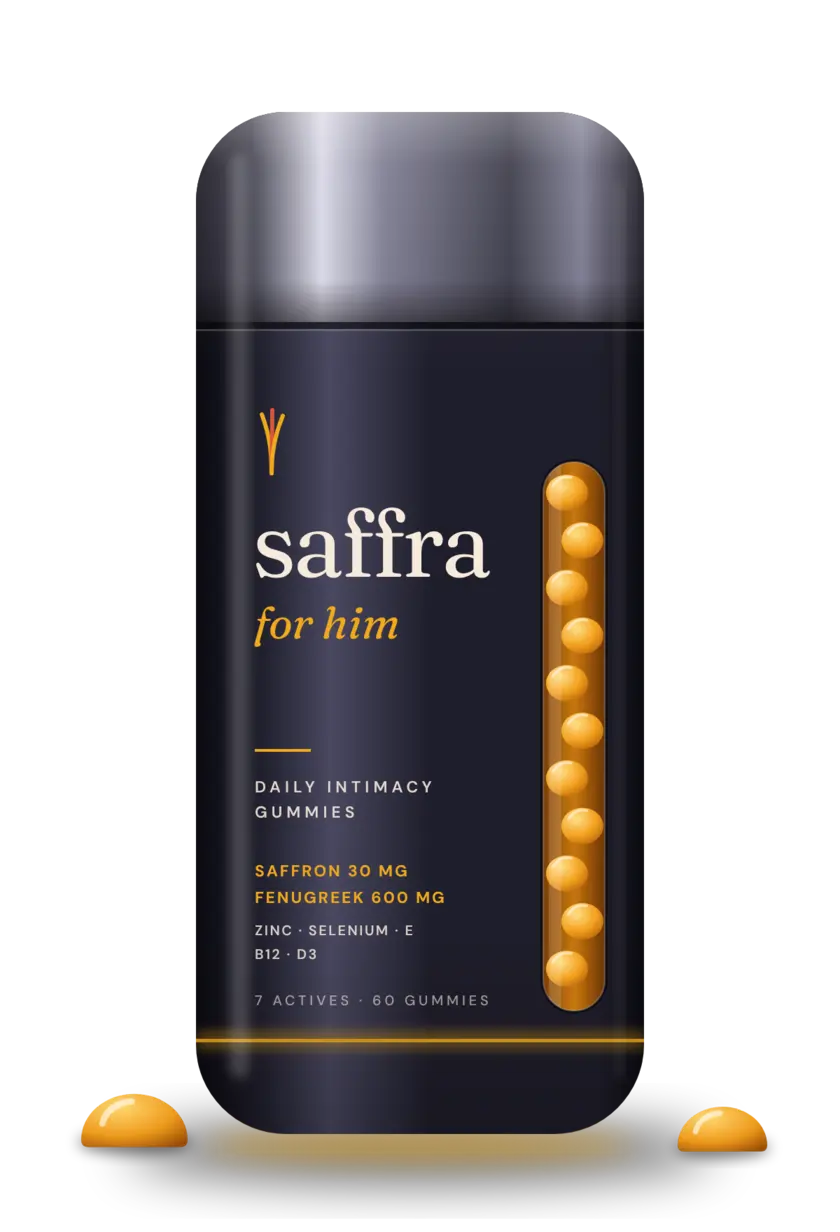
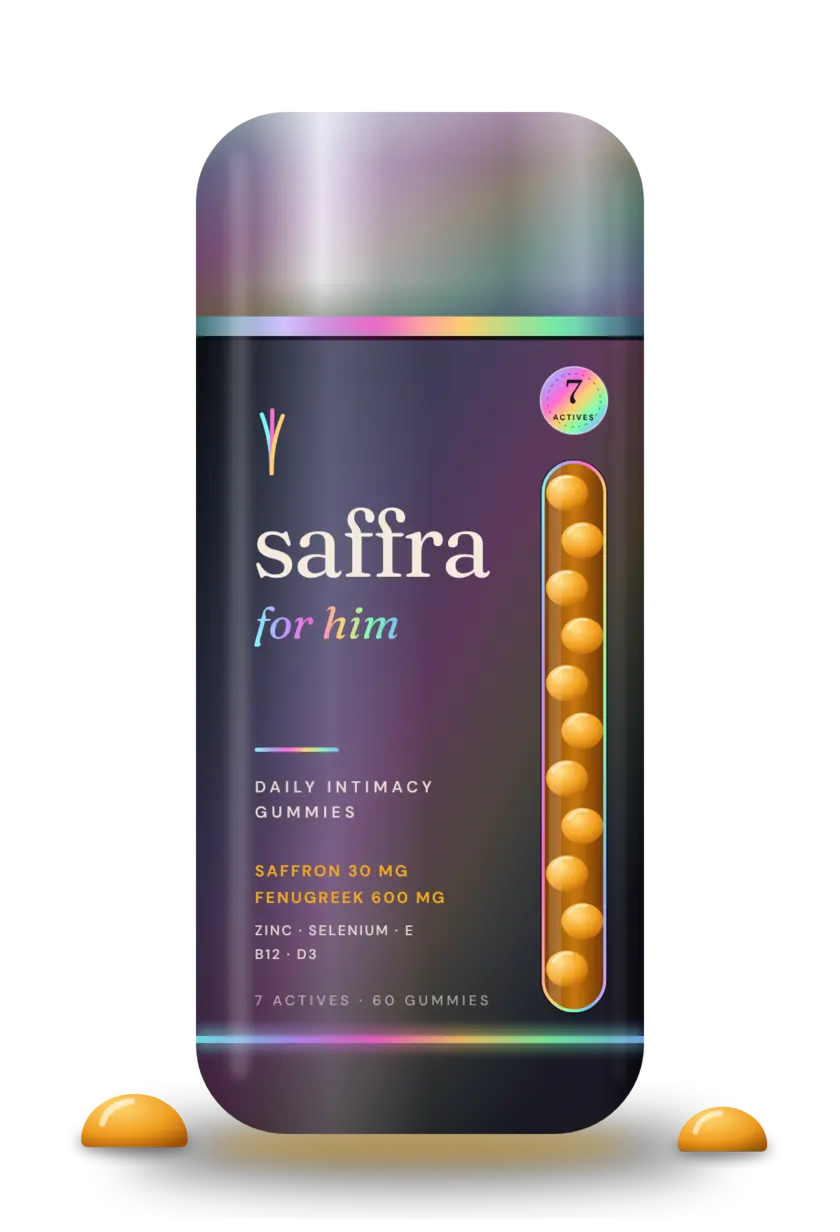
Add motion, metallic buttons, purple-to-red lines and holographic packaging
Silver and purple metallic buttons with a moving sheen, animated gradient
lines, hero line art and floating jars, a ticker, and scroll reveals.
Bottle and box renders now carry holographic foil.

Claude-Session: https://claude.ai/code/session_015dDce3uLSXqt7HekCjqUxV

diff --git a/index.html b/index.html
@@ -478,6 +478,76 @@ body[data-view="read-habit"] #v-read-habit,body[data-view="read-saffron"] #v-rea
   .nav nav{gap:14px}
 }
 @media (prefers-reduced-motion:reduce){html{scroll-behavior:auto}.btn{transition:none}}
+
+/* ---------- motion and metal layer ---------- */
+:root{--violet:#9333EA;--violet-2:#5B1FB8;--ruby:#E11D48;--line:linear-gradient(90deg,var(--violet),#C026D3 45%,var(--ruby));--silver:linear-gradient(180deg,#ffffff 0%,#e6e7ee 22%,#b9bcc9 50%,#e9eaf0 74%,#9a9dab 100%);--purple-metal:linear-gradient(180deg,#c79bff 0%,#9a4dff 26%,#6a21c9 55%,#8d3df0 78%,#4a1596 100%)}
+.btn{background:var(--silver);color:#16131a;position:relative;overflow:hidden;isolation:isolate;border:1px solid rgba(255,255,255,.7);box-shadow:0 1px 0 rgba(255,255,255,.9) inset,0 -2px 4px rgba(0,0,0,.18) inset,0 8px 26px rgba(170,175,200,.28);text-shadow:0 1px 0 rgba(255,255,255,.6)}
+.btn:hover{background:var(--silver);filter:brightness(1.06)}
+.btn.ghost,.btn.dark{background:var(--purple-metal);color:#fff;border:1px solid rgba(214,180,255,.7);box-shadow:0 1px 0 rgba(255,255,255,.45) inset,0 -2px 5px rgba(0,0,0,.3) inset,0 8px 26px rgba(147,51,234,.4);text-shadow:0 1px 1px rgba(40,0,90,.6)}
+.btn.ghost:hover,.btn.dark:hover{background:var(--purple-metal);border-color:#e9d5ff;filter:brightness(1.1)}
+.btn::after{content:"";position:absolute;top:-20%;bottom:-20%;left:-60%;width:45%;background:linear-gradient(100deg,transparent,rgba(255,255,255,.75),transparent);transform:skewX(-20deg);z-index:-1;animation:sheen 4.5s ease-in-out infinite}
+.btn.ghost::after,.btn.dark::after{background:linear-gradient(100deg,transparent,rgba(255,255,255,.4),transparent);animation-delay:1.2s}
+.nav nav a.btn{color:#16131a}
+@keyframes sheen{0%,55%{left:-60%}85%,100%{left:130%}}
+.toggle button[aria-pressed="true"],.chip[aria-pressed="true"]{background:var(--silver);color:#16131a;border-color:rgba(255,255,255,.7)}
+.gtabs button[aria-selected="true"]{background:var(--purple-metal);color:#fff;border-color:rgba(214,180,255,.7)}
+.day[aria-pressed="true"]{background:var(--purple-metal);border-color:#d6b4ff;color:#fff}
+.bar{background:linear-gradient(90deg,var(--violet-2),var(--violet) 40%,var(--ruby));color:#fff}
+.nav{border-bottom:0}
+.nav::after,.trust::before,.trust::after,footer::before{content:"";display:block;height:2px;background:var(--line);background-size:200% 100%;animation:flow 6s linear infinite}
+.trust{border:0}
+footer{padding-top:0}
+footer::before{margin-bottom:44px}
+@keyframes flow{to{background-position:200% 0}}
+.steps div,.vals div,.proof div{border-top:0;position:relative}
+.steps div::after,.vals div::after{content:"";position:absolute;left:0;right:0;top:0;height:2px;background:var(--line);box-shadow:0 0 14px rgba(225,29,72,.55)}
+.honest div{border-top:2px solid transparent;border-image:var(--line) 1}
+.rit li,.light details{border-image:linear-gradient(90deg,rgba(147,51,234,.55),rgba(225,29,72,.55)) 1}
+.two,.cross{border:1px solid transparent;background:linear-gradient(100deg,#3a1b3f,var(--plum-2) 60%) padding-box,var(--line) border-box}
+.card,.tile,.doc,.expect div,.ing{background-clip:padding-box}
+.tile:hover{border-color:var(--violet)}
+.price.hero-offer{border-color:var(--violet)}
+.rule{position:relative;height:70px;overflow:hidden}
+.rule svg{position:absolute;inset:0;width:200%;height:100%;animation:drift 14s linear infinite}
+.rule path{fill:none;stroke-width:1.6;stroke-linecap:round}
+@keyframes drift{to{transform:translateX(-50%)}}
+.hero{overflow:hidden}
+.hero .wrap{position:relative;z-index:1}
+.hero .lines{position:absolute;inset:0;width:100%;height:100%;z-index:0;pointer-events:none}
+.hero .lines path{fill:none;stroke-width:1.4;stroke-linecap:round;stroke-dasharray:6 14;animation:dash 9s linear infinite;opacity:.85}
+.hero .lines path:nth-child(2){animation-duration:13s;stroke-dasharray:2 10;opacity:.6}
+.hero .lines path:nth-child(3){animation-duration:17s;stroke-dasharray:14 18;opacity:.5}
+@keyframes dash{to{stroke-dashoffset:-400}}
+.hero .shot img{animation:float 7s ease-in-out infinite}
+@keyframes float{0%,100%{transform:translateY(0)}50%{transform:translateY(-12px)}}
+.hero .shot{position:relative}
+.hero .shot::before{content:"";position:absolute;left:8%;right:8%;top:18%;bottom:6%;border-radius:50%;background:radial-gradient(circle,rgba(147,51,234,.45),rgba(225,29,72,.18) 55%,transparent 72%);filter:blur(30px);animation:pulse 5s ease-in-out infinite;z-index:-1}
+@keyframes pulse{0%,100%{opacity:.65;transform:scale(1)}50%{opacity:1;transform:scale(1.08)}}
+.orb{position:absolute;border-radius:50%;background:radial-gradient(circle at 35% 30%,#ffd872,#ee9a1c 60%,#9a4f06);box-shadow:0 0 18px rgba(240,169,30,.5);animation:bob 9s ease-in-out infinite;z-index:0}
+.orb.o1{width:16px;height:16px;left:6%;top:22%}.orb.o2{width:10px;height:10px;left:46%;top:12%;animation-delay:-3s}.orb.o3{width:22px;height:22px;right:5%;top:64%;animation-delay:-5s}.orb.o4{width:8px;height:8px;left:30%;bottom:10%;animation-delay:-7s}
+@keyframes bob{0%,100%{transform:translate(0,0)}33%{transform:translate(10px,-18px)}66%{transform:translate(-8px,10px)}}
+.ticker{overflow:hidden;white-space:nowrap;padding:16px 0;background:#1d0d1c}
+.ticker div{display:inline-block;animation:tick 32s linear infinite;font-family:var(--display);font-style:italic;font-size:22px;color:var(--cream)}
+.ticker span{margin:0 22px}
+.ticker i{display:inline-block;width:44px;height:2px;background:var(--line);vertical-align:middle;border-radius:2px}
+@keyframes tick{to{transform:translateX(-50%)}}
+h1 em,.hero em,.pdp h1 i{background:linear-gradient(90deg,#F0A91E,#ff7a59 60%,#F0A91E);background-size:200% 100%;-webkit-background-clip:text;background-clip:text;color:transparent!important;animation:flow 8s linear infinite}
+.eyebrow::before{content:"";display:inline-block;width:26px;height:2px;background:var(--line);vertical-align:middle;margin-right:10px;border-radius:2px}
+.deckcard{position:relative;overflow:hidden}
+.deckcard::before{content:"";position:absolute;left:0;right:0;top:0;height:4px;background:var(--line)}
+.card{transition:transform .25s,box-shadow .25s}
+.card:hover{transform:translateY(-4px);box-shadow:0 22px 50px rgba(147,51,234,.28)}
+.card img,.stage img{transition:transform .5s}
+.card:hover img{transform:translateY(-6px) rotate(-2deg)}
+.photo img{transition:transform 1.2s ease}
+.photo:hover img{transform:scale(1.05)}
+.prog i{background:var(--line)}
+@supports (animation-timeline:view()){
+  .head,.ing2,.tile,.post,.doc,.steps div,.vals div,.products .card,.two,.stages .photo,.story .txt,.letter>*{animation:rise linear both;animation-timeline:view();animation-range:entry 0% entry 45%}
+}
+@keyframes rise{from{opacity:.15;transform:translateY(34px)}to{opacity:1;transform:none}}
+@media (max-width:900px){.orb.o1,.orb.o2{display:none}.orb{opacity:.7}}
+@media (prefers-reduced-motion:reduce){*,*::before,*::after{animation:none!important;transition:none!important}}
 </style>
 </head>
 <body data-view="home">
@@ -514,6 +584,12 @@ body[data-view="read-habit"] #v-read-habit,body[data-view="read-saffron"] #v-rea
 <main id="site">
 <span id="top"></span>
 <div class="hero">
+  <svg class="lines" viewBox="0 0 1200 600" preserveAspectRatio="none" aria-hidden="true"><defs><linearGradient id="lg" x1="0" x2="1"><stop offset="0" stop-color="#9333EA"/><stop offset=".5" stop-color="#C026D3"/><stop offset="1" stop-color="#E11D48"/></linearGradient></defs>
+    <path stroke="url(#lg)" d="M-20 420 C 200 300, 380 520, 620 400 S 1000 260, 1220 380"/>
+    <path stroke="url(#lg)" d="M-20 480 C 240 380, 420 560, 660 450 S 1040 330, 1220 450"/>
+    <path stroke="url(#lg)" d="M-20 340 C 180 240, 400 430, 640 330 S 980 180, 1220 300"/>
+  </svg>
+  <span class="orb o1"></span><span class="orb o2"></span><span class="orb o3"></span><span class="orb o4"></span>
   <div class="wrap">
     <div class="copy">
       <p class="eyebrow">Daily intimacy gummies, for her and for him</p>
@@ -529,6 +605,7 @@ body[data-view="read-habit"] #v-read-habit,body[data-view="read-saffron"] #v-rea
   </div>
 </div>
 
+<div class="ticker" aria-hidden="true"><div><span>Desire, daily</span><i></i><span>For her</span><i></i><span>For him</span><i></i><span>For two</span><i></i><span>Seven ingredients</span><i></i><span>Every dose shown</span><i></i><span>Make time for each other</span><i></i><span>Desire, daily</span><i></i><span>For her</span><i></i><span>For him</span><i></i><span>For two</span><i></i><span>Seven ingredients</span><i></i><span>Every dose shown</span><i></i><span>Make time for each other</span><i></i></div></div>
 <div class="trust">
   <div class="wrap">
     <div><b>Full doses</b><span>Every amount printed on the jar</span></div>
@@ -562,7 +639,8 @@ body[data-view="read-habit"] #v-read-habit,body[data-view="read-saffron"] #v-rea
   </div>
 </section>
 
-<section id="shop" style="padding-top:0">
+<div class="rule" aria-hidden="true"><svg viewBox="0 0 2400 70" preserveAspectRatio="none"><defs><linearGradient id="wg" x1="0" x2="1"><stop offset="0" stop-color="#9333EA"/><stop offset=".25" stop-color="#E11D48"/><stop offset=".5" stop-color="#9333EA"/><stop offset=".75" stop-color="#E11D48"/><stop offset="1" stop-color="#9333EA"/></linearGradient></defs><path stroke="url(#wg)" d="M0 35 C 150 5, 300 65, 450 35 S 750 5, 900 35 S 1050 65, 1200 35 C 1350 5, 1500 65, 1650 35 S 1950 5, 2100 35 S 2250 65, 2400 35"/><path stroke="url(#wg)" opacity=".5" d="M0 35 C 150 60, 300 10, 450 35 S 750 60, 900 35 S 1050 10, 1200 35 C 1350 60, 1500 10, 1650 35 S 1950 60, 2100 35 S 2250 10, 2400 35"/></svg></div>
+<section id="shop" style="padding-top:24px">
   <div class="wrap">
     <div class="shop-head">
       <div class="head" style="margin:0">
@@ -701,7 +779,8 @@ body[data-view="read-habit"] #v-read-habit,body[data-view="read-saffron"] #v-rea
   </div>
 </section>
 
-<section id="doctors" style="padding-top:0">
+<div class="rule" aria-hidden="true"><svg viewBox="0 0 2400 70" preserveAspectRatio="none"><defs><linearGradient id="wg" x1="0" x2="1"><stop offset="0" stop-color="#9333EA"/><stop offset=".25" stop-color="#E11D48"/><stop offset=".5" stop-color="#9333EA"/><stop offset=".75" stop-color="#E11D48"/><stop offset="1" stop-color="#9333EA"/></linearGradient></defs><path stroke="url(#wg)" d="M0 35 C 150 5, 300 65, 450 35 S 750 5, 900 35 S 1050 65, 1200 35 C 1350 5, 1500 65, 1650 35 S 1950 5, 2100 35 S 2250 65, 2400 35"/><path stroke="url(#wg)" opacity=".5" d="M0 35 C 150 60, 300 10, 450 35 S 750 60, 900 35 S 1050 10, 1200 35 C 1350 60, 1500 10, 1650 35 S 1950 60, 2100 35 S 2250 10, 2400 35"/></svg></div>
+<section id="doctors" style="padding-top:24px">
   <div class="wrap">
     <div class="head">
       <p class="eyebrow">Medical advisory board</p>
@@ -768,7 +847,8 @@ body[data-view="read-habit"] #v-read-habit,body[data-view="read-saffron"] #v-rea
   </div>
 </section>
 
-<section id="more" style="padding-top:0">
+<div class="rule" aria-hidden="true"><svg viewBox="0 0 2400 70" preserveAspectRatio="none"><defs><linearGradient id="wg" x1="0" x2="1"><stop offset="0" stop-color="#9333EA"/><stop offset=".25" stop-color="#E11D48"/><stop offset=".5" stop-color="#9333EA"/><stop offset=".75" stop-color="#E11D48"/><stop offset="1" stop-color="#9333EA"/></linearGradient></defs><path stroke="url(#wg)" d="M0 35 C 150 5, 300 65, 450 35 S 750 5, 900 35 S 1050 65, 1200 35 C 1350 5, 1500 65, 1650 35 S 1950 5, 2100 35 S 2250 65, 2400 35"/><path stroke="url(#wg)" opacity=".5" d="M0 35 C 150 60, 300 10, 450 35 S 750 60, 900 35 S 1050 10, 1200 35 C 1350 60, 1500 10, 1650 35 S 1950 60, 2100 35 S 2250 10, 2400 35"/></svg></div>
+<section id="more" style="padding-top:24px">
   <div class="wrap">
     <div class="head"><p class="eyebrow">More than a gummy</p><h2>Come for the ritual. Stay to play.</h2><p class="muted">Free things to do together, whether or not you ever buy a jar.</p></div>
     <div class="tiles">
@@ -1504,7 +1584,7 @@ body[data-view="read-habit"] #v-read-habit,body[data-view="read-saffron"] #v-rea
         <h3>Packaging</h3>
         <img src="img/duo-dark.jpg" width="1600" height="1200" alt="Rendering of the For Her and For Him jars" style="border-radius:var(--r)">
         <img src="img/set.jpg" width="1600" height="1200" alt="Rendering of the For Two gift box with both jars" style="border-radius:var(--r)" loading="lazy">
-        <p class="muted">One seamless capsule shape with no paper label. For Her: matte plum with a gold cap. For Him: graphite with a steel cap. Type is printed on the jar, a side window shows the gummies, and a saffron line marks the base. Doses sit on the front of both. The For Two box is matte plum with the wordmark in gold foil.</p>
+        <p class="muted">One seamless capsule shape with no paper label. For Her: matte plum with a gold cap. For Him: graphite with a steel cap. Type is printed on the jar, a side window shows the gummies, and holographic foil marks the cap seam, the base line, the logo and a small 7-actives seal. Doses sit on the front of both. The For Two box is matte plum with the wordmark in holographic foil.</p>
       </div>
       <div>
         <h3 style="margin-bottom:14px">Color</h3>
@@ -1641,7 +1721,7 @@ body[data-view="read-habit"] #v-read-habit,body[data-view="read-saffron"] #v-rea
     var imgs=jars.map(function(j){return '<img src="img/bottle-'+j+'.webp" alt="Saffra for '+j+' jar" width="840" height="1232">';}).join('');
     qb.innerHTML='<div class="result"><p class="eyebrow" style="color:var(--gold-ink)">Your match</p><h2>'+esc(name)+'</h2><div class="jars">'+imgs+'</div><p style="font-family:var(--display);font-size:30px">'+price+'</p><p class="muted">'+esc(why)+'</p>'+notes+
       '<p class="muted">One gummy morning and evening, each. Give it four to eight weeks.<sup>*</sup></p><div style="display:flex;gap:12px;flex-wrap:wrap"><a class="btn dark" href="#waitlist" data-int="'+(both?'two':A.form)+'">Join the waitlist</a>'+
-      (both?'':'<a class="btn ghost" style="color:var(--ink);border-color:#cdbba6" href="#'+A.form+'">See the details</a>')+'<button type="button" class="btn ghost" style="color:var(--ink);border-color:#cdbba6" id="qagain">Start over</button></div></div>';
+      (both?'':'<a class="btn ghost" href="#'+A.form+'">See the details</a>')+'<button type="button" class="btn ghost" id="qagain">Start over</button></div></div>';
     document.getElementById('qagain').addEventListener('click',function(){A={};qi=0;draw();});
   }
   back.addEventListener('click',function(){ if(qi>0){qi--; draw();} });
